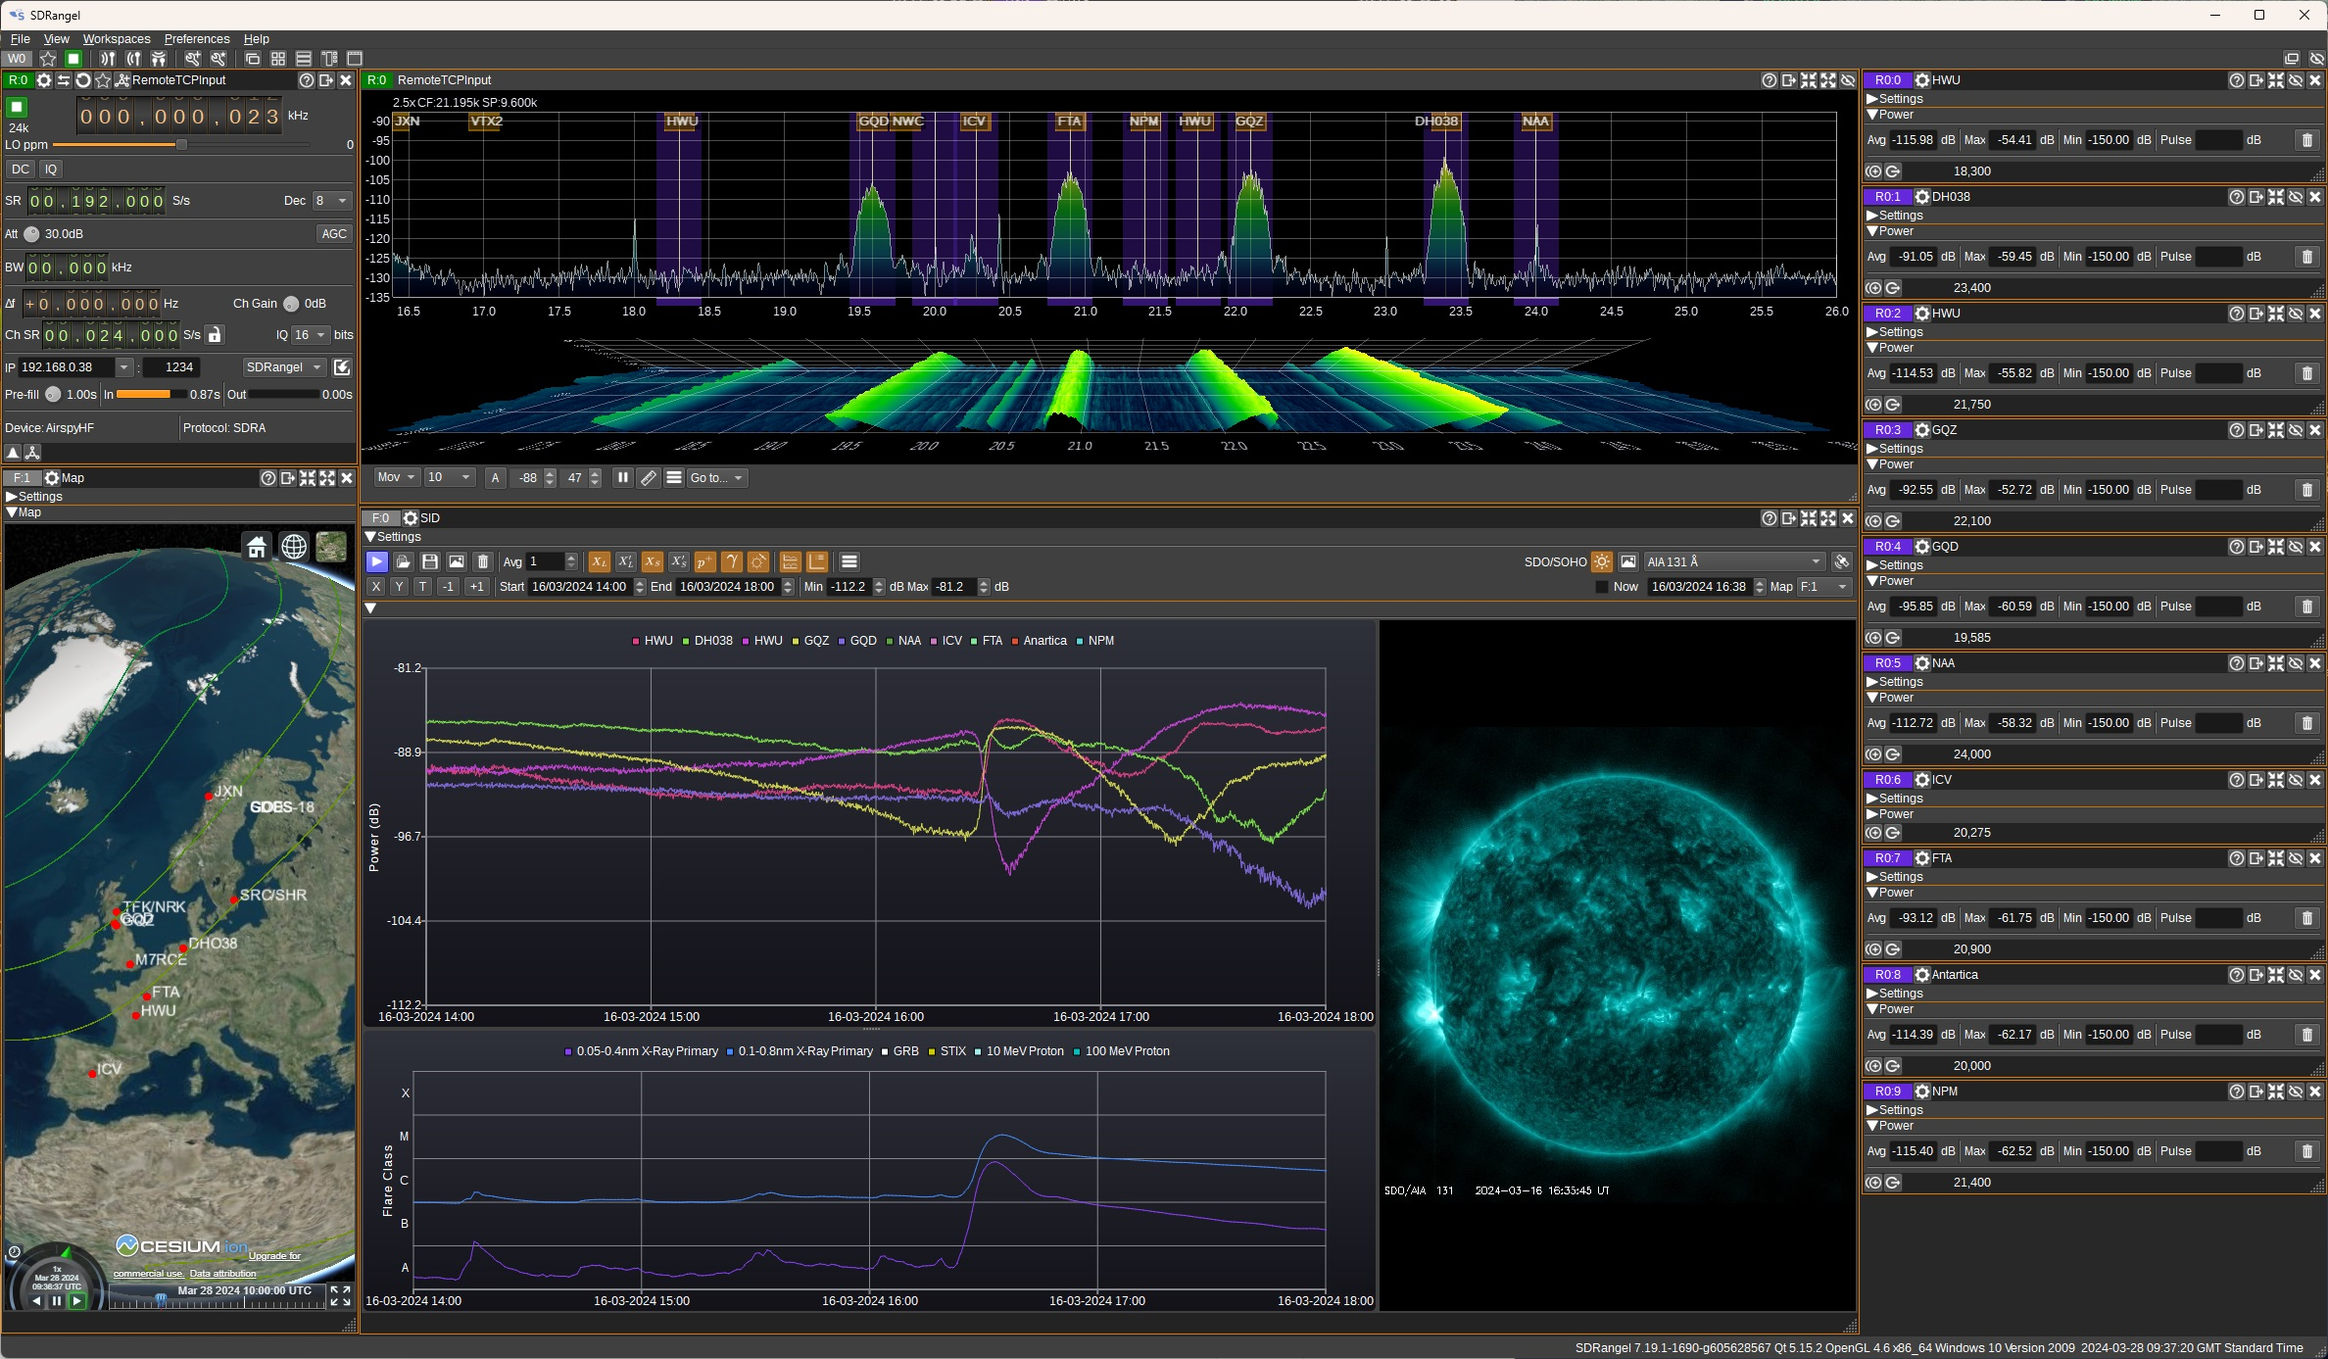
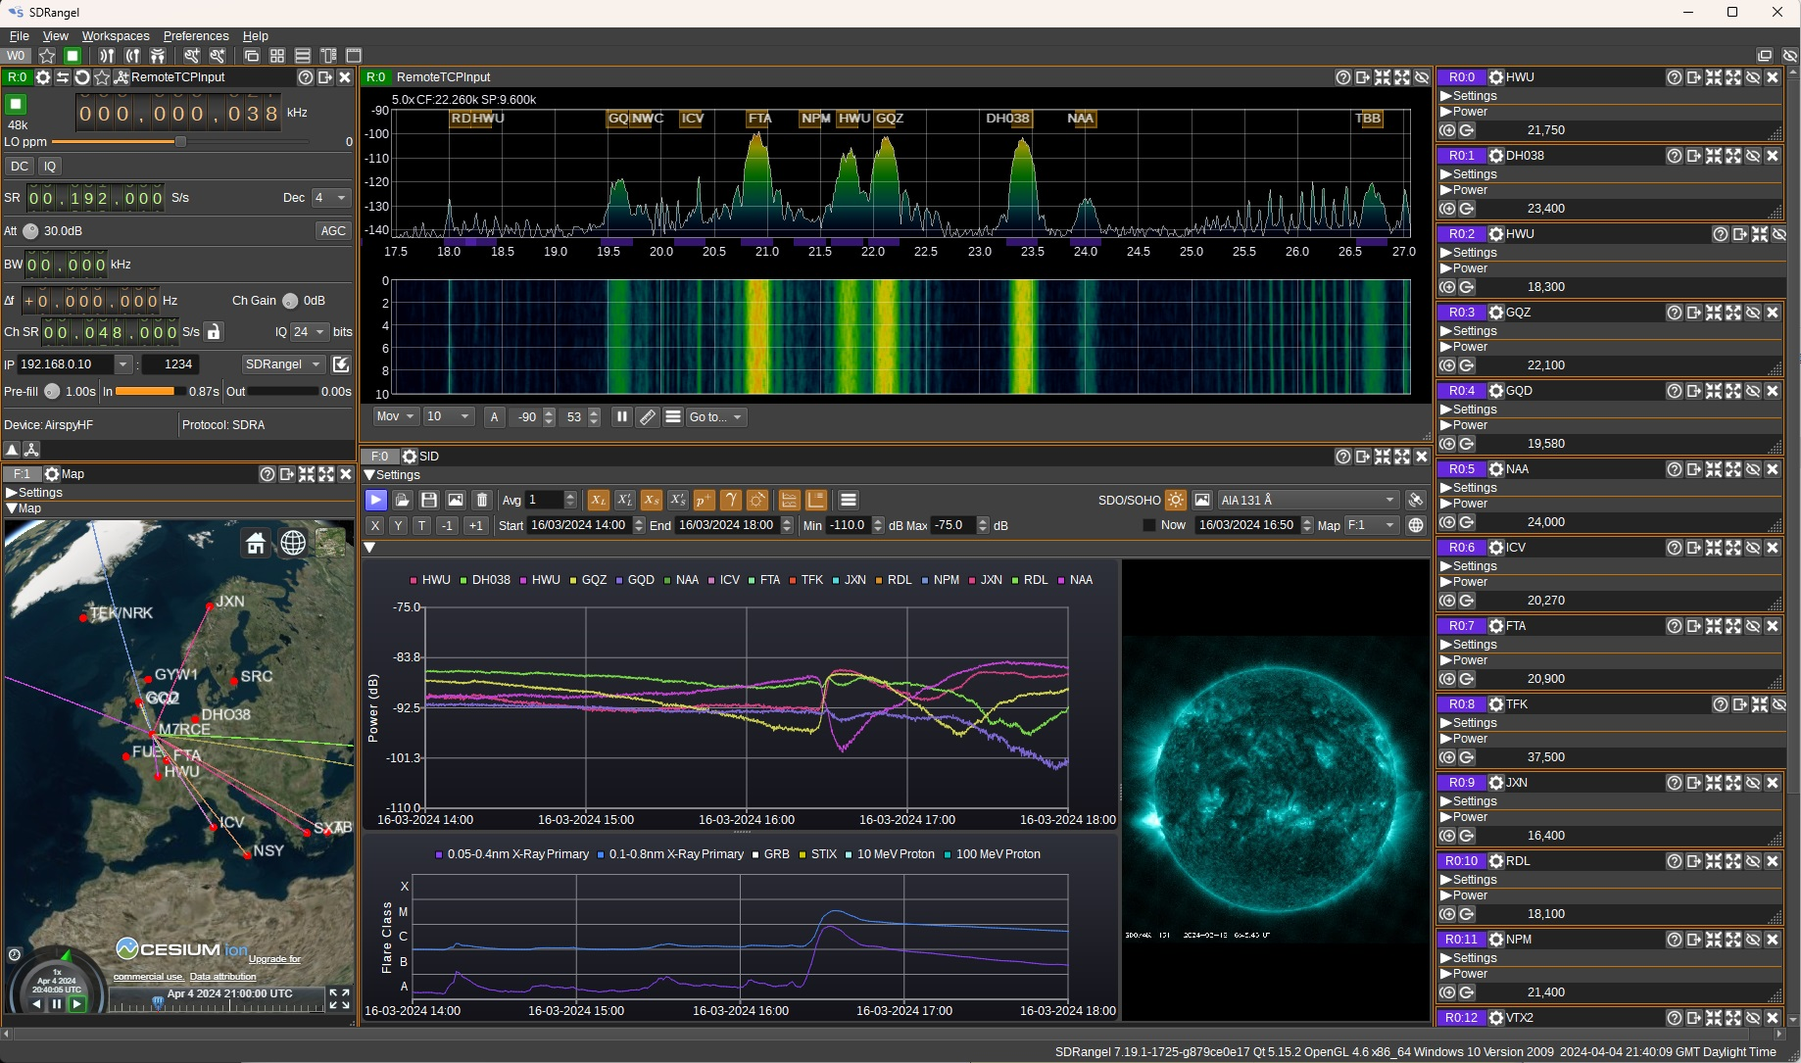
Plot SID paths on map.

diff --git a/sdrbase/util/vlftransmitters.cpp b/sdrbase/util/vlftransmitters.cpp
@@ -1,0 +1,116 @@
+///////////////////////////////////////////////////////////////////////////////////
+// Copyright (C) 2024 Jon Beniston, M7RCE <jon@beniston.com>                     //
+//                                                                               //
+// This program is free software; you can redistribute it and/or modify          //
+// it under the terms of the GNU General Public License as published by          //
+// the Free Software Foundation as version 3 of the License, or                  //
+// (at your option) any later version.                                           //
+//                                                                               //
+// This program is distributed in the hope that it will be useful,               //
+// but WITHOUT ANY WARRANTY; without even the implied warranty of                //
+// MERCHANTABILITY or FITNESS FOR A PARTICULAR PURPOSE. See the                  //
+// GNU General Public License V3 for more details.                               //
+//                                                                               //
+// You should have received a copy of the GNU General Public License             //
+// along with this program. If not, see <http://www.gnu.org/licenses/>.          //
+///////////////////////////////////////////////////////////////////////////////////
+
+#include <QFile>
+#include <QTextStream>
+#include <QStandardPaths>
+#include <QDebug>
+
+#include "util/csv.h"
+
+#include "vlftransmitters.h"
+
+// https://sidstation.loudet.org/stations-list-en.xhtml
+// https://core.ac.uk/download/pdf/224769021.pdf -- Table 1
+// GQD/GQZ callsigns: https://groups.io/g/VLF/message/19212?p=%2C%2C%2C20%2C0%2C0%2C0%3A%3Arecentpostdate%2Fsticky%2C%2C19.6%2C20%2C2%2C0%2C38924431
+QList<VLFTransmitters::Transmitter> VLFTransmitters::m_transmitters = {
+    {QStringLiteral("JXN"),   16400, 66.974353, 13.873617, -1},     // Novik, Norway (Only transmits 6 times a day)
+    {QStringLiteral("VTX2"),  17000, 8.387015,  77.752762, -1},     // South Vijayanarayanam, India
+    {QStringLiteral("RDL"),   18100, 44.773333, 39.547222, -1},     // Krasnodar, Russia (Transmits short bursts, possibly FSK)
+    {QStringLiteral("GQD"),   19580, 54.911643, -3.278456, 100},    // Anthorn, UK, Often referred to as GBZ
+    {QStringLiteral("NWC"),   19800, -21.816325, 114.16546, 1000},  // Exmouth, Aus
+    {QStringLiteral("ICV"),   20270, 40.922946, 9.731881,  50},     // Isola di Tavolara, Italy (Can be distorted on 3D map if terrain used)
+    {QStringLiteral("FTA"),   20900, 48.544632, 2.579429,  50},     // Sainte-Assise, France (Satellite imagary obfuscated)
+    {QStringLiteral("NPM"),   21400, 21.420166, -158.151140, 600},  // Pearl Harbour, Lualuahei, USA (Not seen?)
+    {QStringLiteral("HWU"),   21750, 46.713129, 1.245248, 200},     // Rosnay, France
+    {QStringLiteral("GQZ"),   22100, 54.731799, -2.883033, 100},    // Skelton, UK (GVT in paper)
+    {QStringLiteral("DHO38"), 23400, 53.078900, 7.615000,  300},    // Rhauderfehn, Germany - Off air 7-8 UTC
+    {QStringLiteral("NAA"),   24000, 44.644506, -67.284565, 1000},  // Cutler, Maine, USA
+    {QStringLiteral("TBB"),   26700, 37.412725, 27.323342, -1},     // Bafa, Turkey
+    {QStringLiteral("TFK/NRK"), 37500, 63.850365, -22.466773, 100}, // Grindavik, Iceland
+    {QStringLiteral("SRC"),   40400, 57.120328, 16.153083, -1},     // Grimeton, Sweden
+    {QStringLiteral("NSY"),   45900, 37.125660, 14.436416, -1},     // Niscemi, Italy
+    {QStringLiteral("SXA"),   49000, 38.145155, 24.019718, -1},     // Marathon, Greece
+    {QStringLiteral("GYW1"),  51950, 57.617463, -1.887589, -1},     // Crimond, UK
+    {QStringLiteral("FUE"),   65800, 48.637673, -4.350758, -1},     // Kerlouan, France
+};
+
+QHash<QString, const VLFTransmitters::Transmitter*> VLFTransmitters::m_callsignHash;
+
+VLFTransmitters::Init VLFTransmitters::m_init;
+
+VLFTransmitters::Init::Init()
+{
+    // Get directory to store app data in
+    QStringList locations = QStandardPaths::standardLocations(QStandardPaths::AppDataLocation);
+    // First dir is writable
+    QString dir = locations[0];
+
+    // Try reading transmitters from .csv file
+    QString filename = QString("%1/%2/%3/vlftransmitters.csv").arg(dir).arg(COMPANY).arg(APPLICATION_NAME); // Because this method is called before main(), we need to add f4exb/SDRangel
+    QFile file(filename);
+    if (file.open(QIODevice::ReadOnly | QIODevice::Text))
+    {
+        QTextStream in(&file);
+
+        QString error;
+        QHash<QString, int> colIndexes = CSV::readHeader(in, {
+            QStringLiteral("Callsign"),
+            QStringLiteral("Frequency"),
+            QStringLiteral("Latitude"),
+            QStringLiteral("Longitude"),
+            QStringLiteral("Power")
+           }, error);
+        if (error.isEmpty())
+        {
+            QStringList cols;
+            int callsignCol = colIndexes.value(QStringLiteral("Callsign"));
+            int frequencyCol = colIndexes.value(QStringLiteral("Frequency"));
+            int latitudeCol = colIndexes.value(QStringLiteral("Latitude"));
+            int longitudeCol = colIndexes.value(QStringLiteral("Longitude"));
+            int powerCol = colIndexes.value(QStringLiteral("Power"));
+            int maxCol = std::max({callsignCol, frequencyCol, latitudeCol, longitudeCol, powerCol});
+
+            m_transmitters.clear(); // Replace builtin list
+
+            while(CSV::readRow(in, &cols))
+            {
+                if (cols.size() > maxCol)
+                {
+                    Transmitter transmitter;
+
+                    transmitter.m_callsign = cols[callsignCol];
+                    transmitter.m_frequency = cols[frequencyCol].toLongLong();
+                    transmitter.m_latitude = cols[latitudeCol].toFloat();
+                    transmitter.m_longitude = cols[longitudeCol].toFloat();
+                    transmitter.m_power = cols[powerCol].toInt();
+
+                    m_transmitters.append(transmitter);
+                }
+            }
+        }
+        else
+        {
+            qWarning() << filename << "did not contain expected headers.";
+        }
+    }
+
+    // Create hash table for faster searching
+    for (const auto& transmitter : VLFTransmitters::m_transmitters) {
+        VLFTransmitters::m_callsignHash.insert(transmitter.m_callsign, &transmitter);
+    }
+}

diff --git a/plugins/feature/sid/sidgui.cpp b/plugins/feature/sid/sidgui.cpp
@@ -33,11 +33,14 @@
 #include "device/deviceuiset.h"
 #include "util/csv.h"
 #include "util/astronomy.h"
+#include "util/vlftransmitters.h"
 
 #include "ui_sidgui.h"
 #include "sid.h"
 #include "sidgui.h"
 #include "sidsettingsdialog.h"
+
+#include "SWGMapItem.h"
 
 SIDGUI* SIDGUI::create(PluginAPI* pluginAPI, FeatureUISet *featureUISet, Feature *feature)
 {
@@ -1521,6 +1524,7 @@ void SIDGUI::makeUIConnections()
     QObject::connect(ui->sdoDateTime, &WrappingDateTimeEdit::dateTimeChanged, this, &SIDGUI::on_sdoDateTime_dateTimeChanged);
     QObject::connect(ui->showSats, &QToolButton::clicked, this, &SIDGUI::on_showSats_clicked);
     QObject::connect(ui->map, &QComboBox::currentTextChanged, this, &SIDGUI::on_map_currentTextChanged);
+    QObject::connect(ui->showPaths, &QToolButton::clicked, this, &SIDGUI::on_showPaths_clicked);
     QObject::connect(ui->autoscaleX, &QPushButton::clicked, this, &SIDGUI::on_autoscaleX_clicked);
     QObject::connect(ui->autoscaleY, &QPushButton::clicked, this, &SIDGUI::on_autoscaleY_clicked);
     QObject::connect(ui->today, &QPushButton::clicked, this, &SIDGUI::on_today_clicked);
@@ -1953,6 +1957,96 @@ void SIDGUI::on_map_currentTextChanged(const QString& text)
     m_settings.m_map = text;
     applySetting("map");
     applyDateTime();
+}
+
+// Plot paths from transmitters to receivers on map
+void SIDGUI::on_showPaths_clicked()
+{
+
+    for (int i = 0; i < m_settings.m_channelSettings.size(); i++)
+    {
+        unsigned int deviceSetIndex;
+        unsigned int channelIndex;
+
+        if (MainCore::getDeviceAndChannelIndexFromId(m_settings.m_channelSettings[i].m_id, deviceSetIndex, channelIndex))
+        {
+            // Get position of device, defaulting to My Position
+            QGeoCoordinate rxPosition;
+            if (!ChannelWebAPIUtils::getDevicePosition(deviceSetIndex, rxPosition))
+            {
+                rxPosition.setLatitude(MainCore::instance()->getSettings().getLatitude());
+                rxPosition.setLongitude(MainCore::instance()->getSettings().getLongitude());
+                rxPosition.setAltitude(MainCore::instance()->getSettings().getAltitude());
+            }
+
+            // Get position of transmitter
+            if (VLFTransmitters::m_callsignHash.contains(m_settings.m_channelSettings[i].m_label))
+            {
+                const VLFTransmitters::Transmitter *transmitter = VLFTransmitters::m_callsignHash.value(m_settings.m_channelSettings[i].m_label);
+                QGeoCoordinate txPosition;
+                txPosition.setLatitude(transmitter->m_latitude);
+                txPosition.setLongitude(transmitter->m_longitude);
+                txPosition.setAltitude(0);
+
+                // Calculate mid point for position of label
+                qreal distance = txPosition.distanceTo(rxPosition);
+                qreal az = txPosition.azimuthTo(rxPosition);
+                QGeoCoordinate midPoint = txPosition.atDistanceAndAzimuth(distance / 2.0, az);
+
+                // Create a path from transmitter to receiver
+                QList<ObjectPipe*> mapPipes;
+                MainCore::instance()->getMessagePipes().getMessagePipes(m_sid, "mapitems", mapPipes);
+                if (mapPipes.size() > 0)
+                {
+                    for (const auto& pipe : mapPipes)
+                    {
+                        MessageQueue *messageQueue = qobject_cast<MessageQueue*>(pipe->m_element);
+                        SWGSDRangel::SWGMapItem *swgMapItem = new SWGSDRangel::SWGMapItem();
+
+                        QString deviceId = QString("%1%2").arg(m_settings.m_channelSettings[i].m_id[0]).arg(deviceSetIndex);
+
+                        QString name = QString("SID %1 to %2").arg(m_settings.m_channelSettings[i].m_label).arg(deviceId);
+                        QString details = QString("%1<br>Distance: %2 km").arg(name).arg((int) std::round(distance / 1000.0));
+
+                        swgMapItem->setName(new QString(name));
+                        swgMapItem->setLatitude(midPoint.latitude());
+                        swgMapItem->setLongitude(midPoint.longitude());
+                        swgMapItem->setAltitude(midPoint.altitude());
+                        QString image = QString("none");
+                        swgMapItem->setImage(new QString(image));
+                        swgMapItem->setImageRotation(0);
+                        swgMapItem->setText(new QString(details));   // Not used - label is used instead for now
+                        swgMapItem->setFixedPosition(true);
+                        swgMapItem->setLabel(new QString(details));
+                        swgMapItem->setAltitudeReference(0);
+                        QList<SWGSDRangel::SWGMapCoordinate *> *coords = new QList<SWGSDRangel::SWGMapCoordinate *>();
+
+                        SWGSDRangel::SWGMapCoordinate* c = new SWGSDRangel::SWGMapCoordinate();
+                        c->setLatitude(rxPosition.latitude());
+                        c->setLongitude(rxPosition.longitude());
+                        c->setAltitude(rxPosition.altitude());
+                        coords->append(c);
+
+                        c = new SWGSDRangel::SWGMapCoordinate();
+                        c->setLatitude(txPosition.latitude());
+                        c->setLongitude(txPosition.longitude());
+                        c->setAltitude(txPosition.altitude());
+                        coords->append(c);
+
+                        swgMapItem->setColorValid(1);
+                        swgMapItem->setColor(m_settings.m_channelSettings[i].m_color.rgba());
+
+                        swgMapItem->setCoordinates(coords);
+                        swgMapItem->setType(3);
+
+                        MainCore::MsgMapItem *msg = MainCore::MsgMapItem::create(m_sid, swgMapItem);
+                        messageQueue->push(msg);
+                    }
+                }
+            }
+        }
+    }
+
 }
 
 void SIDGUI::featuresChanged(const QStringList& renameFrom, const QStringList& renameTo)

diff --git a/sdrbase/util/vlftransmitters.h b/sdrbase/util/vlftransmitters.h
@@ -1,0 +1,56 @@
+///////////////////////////////////////////////////////////////////////////////////
+// Copyright (C) 2024 Jon Beniston, M7RCE <jon@beniston.com>                     //
+//                                                                               //
+// This program is free software; you can redistribute it and/or modify          //
+// it under the terms of the GNU General Public License as published by          //
+// the Free Software Foundation as version 3 of the License, or                  //
+// (at your option) any later version.                                           //
+//                                                                               //
+// This program is distributed in the hope that it will be useful,               //
+// but WITHOUT ANY WARRANTY; without even the implied warranty of                //
+// MERCHANTABILITY or FITNESS FOR A PARTICULAR PURPOSE. See the                  //
+// GNU General Public License V3 for more details.                               //
+//                                                                               //
+// You should have received a copy of the GNU General Public License             //
+// along with this program. If not, see <http://www.gnu.org/licenses/>.          //
+///////////////////////////////////////////////////////////////////////////////////
+
+#ifndef INCLUDE_VLFTRANSMITTERS_H
+#define INCLUDE_VLFTRANSMITTERS_H
+
+#include <QString>
+#include <QList>
+#include <QHash>
+
+#include "export.h"
+
+// List of VLF transmitters
+// Built-in list can be overriden by user supplied vlftransmitters.csv file, that is read at startup, from the app data dir
+class SDRBASE_API VLFTransmitters
+{
+
+public:
+
+    struct Transmitter {
+        QString m_callsign;
+        qint64 m_frequency;         // In Hz
+        float m_latitude;
+        float m_longitude;
+        int m_power;                // In kW
+    };
+
+    static QList<Transmitter> m_transmitters;
+
+    static QHash<QString, const Transmitter*> m_callsignHash;
+
+private:
+
+    friend struct Init;
+    struct Init {
+        Init();
+    };
+    static Init m_init;
+
+};
+
+#endif /* VLFTransmitters */

diff --git a/sdrbase/channel/channelwebapiutils.cpp b/sdrbase/channel/channelwebapiutils.cpp
@@ -1156,6 +1156,35 @@ bool ChannelWebAPIUtils::getDeviceReportList(unsigned int deviceIndex, const QSt
     return false;
 }
 
+
+bool ChannelWebAPIUtils::getDevicePosition(unsigned int deviceIndex, QGeoCoordinate& position)
+{
+    SWGSDRangel::SWGDeviceReport deviceReport;
+
+    if (getDeviceReport(deviceIndex, deviceReport))
+    {
+        QJsonObject *jsonObj = deviceReport.asJsonObject();
+        double latitude, longitude, altitude;
+
+        if (WebAPIUtils::getSubObjectDouble(*jsonObj, "latitude", latitude)
+            && WebAPIUtils::getSubObjectDouble(*jsonObj, "longitude", longitude)
+            && WebAPIUtils::getSubObjectDouble(*jsonObj, "altitude", altitude))
+        {
+            position.setLatitude(latitude);
+            position.setLongitude(longitude);
+            position.setAltitude(altitude);
+            // Done
+            return true;
+        }
+        else
+        {
+            //qWarning("ChannelWebAPIUtils::getDevicePosition: no latitude/longitude/altitude in device report");
+            return false;
+        }
+    }
+    return false;
+}
+
 bool ChannelWebAPIUtils::runFeature(unsigned int featureSetIndex, unsigned int featureIndex)
 {
     SWGSDRangel::SWGDeviceState runResponse;

diff --git a/sdrbase/channel/channelwebapiutils.h b/sdrbase/channel/channelwebapiutils.h
@@ -23,6 +23,7 @@
 
 #include <QString>
 #include <QJsonArray>
+#include <QGeoCoordinate>
 
 #include "SWGDeviceSettings.h"
 #include "SWGDeviceReport.h"
@@ -71,6 +72,7 @@ public:
     static bool getDeviceSetting(unsigned int deviceIndex, const QString &setting, int &value);
     static bool getDeviceReportValue(unsigned int deviceIndex, const QString &key, QString &value);
     static bool getDeviceReportList(unsigned int deviceIndex, const QString &key, const QString &subKey, QList<int> &values);
+    static bool getDevicePosition(unsigned int deviceIndex, QGeoCoordinate& position);
     static bool patchDeviceSetting(unsigned int deviceIndex, const QString &setting, int value);
     static bool runFeature(unsigned int featureSetIndex, unsigned int featureIndex);
     static bool stopFeature(unsigned int featureSetIndex, unsigned int featureIndex);

diff --git a/plugins/feature/sid/sidgui.h b/plugins/feature/sid/sidgui.h
@@ -305,6 +305,7 @@ private slots:
     void on_showSats_clicked();
     void onSatTrackerAdded(int featureSetIndex, Feature *feature);
     void on_map_currentTextChanged(const QString& text);
+    void on_showPaths_clicked();
     void featuresChanged(const QStringList& renameFrom, const QStringList& renameTo);
     void channelsChanged(const QStringList& renameFrom, const QStringList& renameTo, const QStringList& removed, const QStringList& added);
     void removeChannels(const QStringList& ids);

diff --git a/plugins/feature/sid/readme.md b/plugins/feature/sid/readme.md
@@ -228,6 +228,18 @@ Specifies the date and time for which SDO imagery should be displayed. Images ar
 Select a Map to link to the SID feature. When a time is selected on the SID charts, the [Map](../../feature/map/readme.md) feature will have it's time set accordingly. 
 This allows you, for example, to see the corresponding impact on MUF/foF2 displayed on the 3D map.
 
+<h3>Show Paths on Map</h3>
+
+When clicked, shows the great circle paths between transmitters and receivers on a [Map](../../feature/map/readme.md).
+
+![SID paths](../../../doc/img/SID_plugin_paths.png)
+
+The positions of the transmitters are taken from the Map's VLF database. The position of the receiver is for most devices taken from Preferences > My Position. 
+For KiwiSDRs, the position is taken from the GPS position indicated by the device.
+
+In order to match a transmitter in the Map's VLF database, the label used in the SID chart must match the transmitter's name. It is possible to add user-defined VLF transmitters via 
+a `vlftransmitters.csv` file. See the [Map](../../feature/map/readme.md) documentation.
+
 <h2>Tips</h2>
 
 In order to check that a peak in the spectrum is a real VLF signal, you can:
